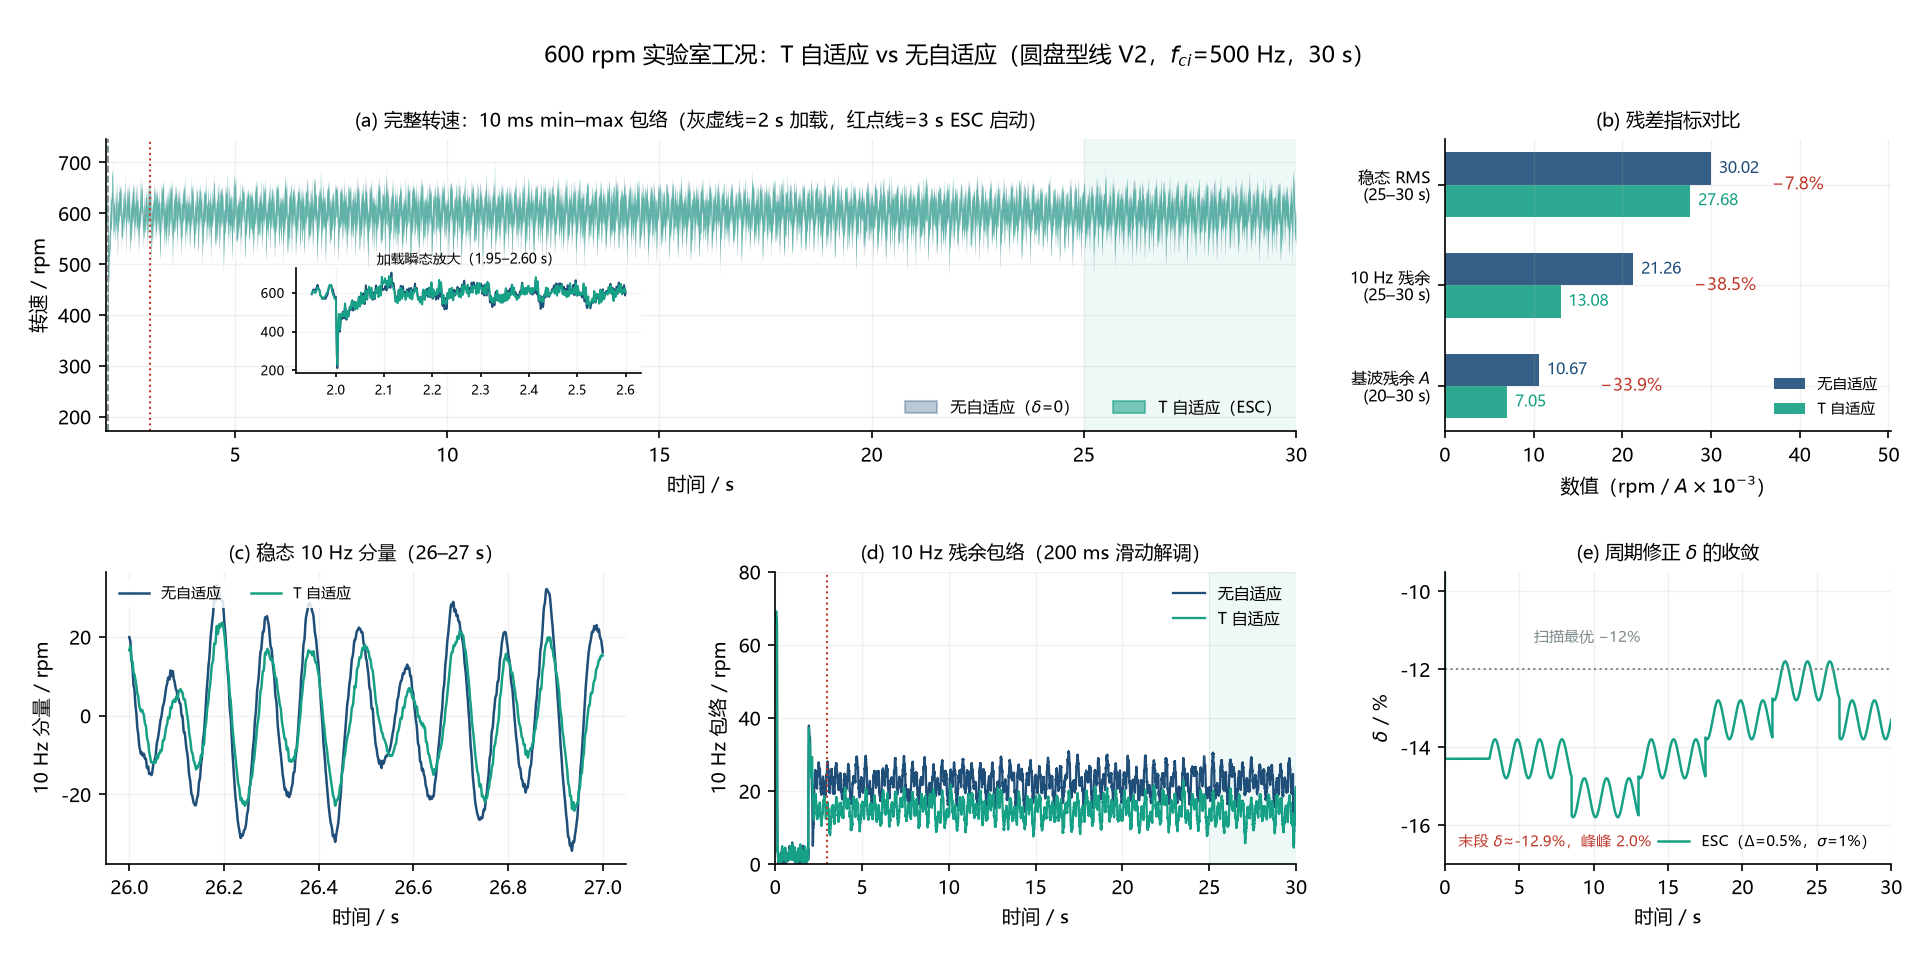
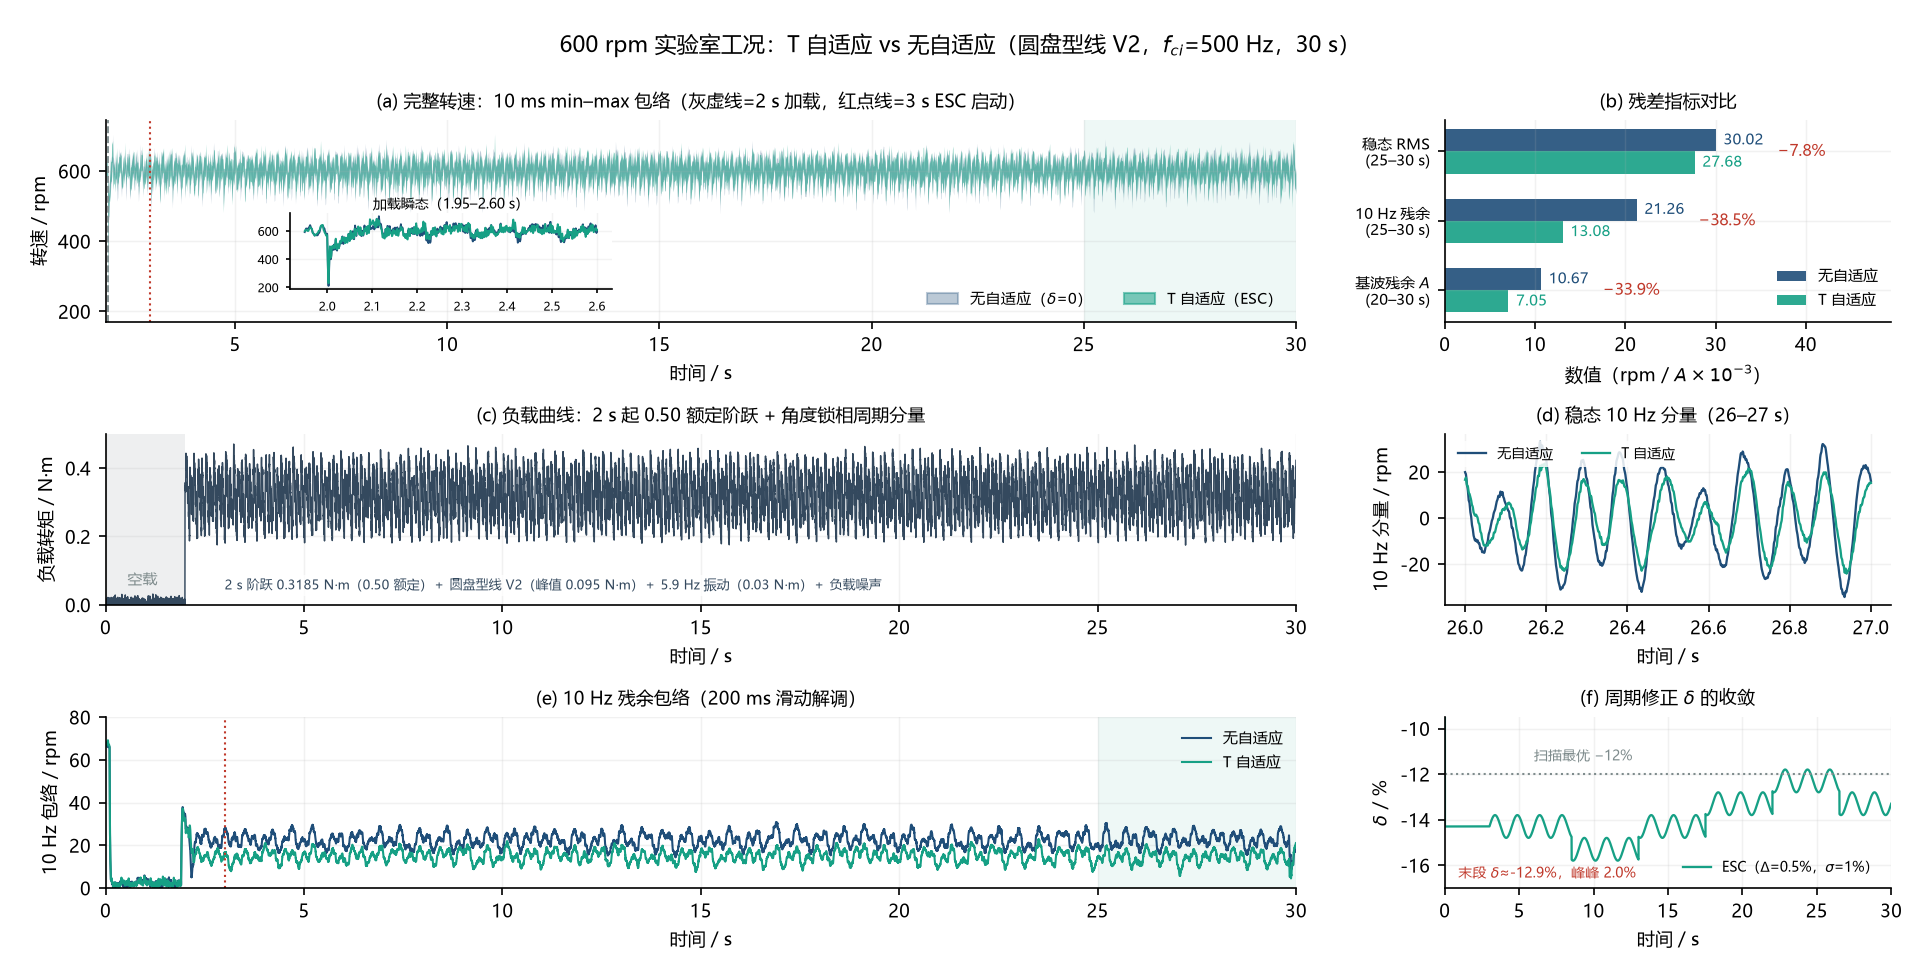
feat(fig): 对比图加入负载曲线（六面板）
- run_t_cmp_600.py 保存 Y[tl]（含负载噪声）；负载：0-2s 空载，2s 阶跃 0.3185 N·m + 圆盘型线V2 + 5.9Hz 振动 + 噪声，实测峰值 0.475 N·m\n- 布局 3x3：转速/残差/负载/稳态10Hz/包络/δ；指标不变（30.02→27.68，10Hz 21.26→13.08）

diff --git a/plot_t_cmp_600.py b/plot_t_cmp_600.py
@@ -1,5 +1,9 @@
 # -*- coding: utf-8 -*-
-"""plot_t_cmp_600.py —— 600 rpm 实验室：T 自适应 vs 无自适应（1920×960）"""
+"""plot_t_cmp_600.py —— 600 rpm 实验室：T 自适应 vs 无自适应（1920×960）
+
+六面板：完整转速（含加载瞬态内嵌）/ 残差指标 / 负载曲线 / 稳态 10 Hz 分量 /
+10 Hz 残余包络 / δ 收敛。输入 _wave_t_cmp_600.npz，输出 fig_t_cmp_600.png。
+"""
 import json
 
 import numpy as np
@@ -9,10 +13,11 @@ import matplotlib.pyplot as plt
 from matplotlib.patches import Patch
 
 N_REF = 600.0
-C_BASE, C_ESC = "#1f4e79", "#16a085"
+T_RATED = 0.637
+C_BASE, C_ESC, C_LOAD = "#1f4e79", "#16a085", "#34495e"
 plt.rcParams.update({
     "font.sans-serif": ["Microsoft YaHei", "SimHei", "DejaVu Sans"],
-    "axes.unicode_minus": False, "font.size": 9.2,
+    "axes.unicode_minus": False, "font.size": 8.8,
     "figure.dpi": 150,
     "axes.grid": True, "grid.alpha": 0.17, "grid.linewidth": 0.7,
     "axes.spines.top": False, "axes.spines.right": False,
@@ -26,10 +31,11 @@ ts = t[::dec]
 y_b = np.asarray(d["y_base"]); y_e = np.asarray(d["y_esc"])
 A_b = np.asarray(d["amp_base"]); A_e = np.asarray(d["amp_esc"])
 es = np.asarray(d["es_esc"])
+tl = np.asarray(d["tl"])[::dec]
 eb_full = (y_b - 1.0) * N_REF
 ee_full = (y_e - 1.0) * N_REF
 eb = eb_full[::dec]; ee = ee_full[::dec]
-Ab = A_b[::dec]; Ae = A_e[::dec]; es_s = es[::dec]
+es_s = es[::dec]
 
 
 def metrics(e, A, tt):
@@ -66,100 +72,104 @@ def band10(e, tt, f=10.0, win=0.1):
     return a * np.cos(2 * np.pi * f * tt) + b * np.sin(2 * np.pi * f * tt)
 
 
-tm_b, mn_b, mx_b = env_minmax(600 + eb, ts)
-tm_e, mn_e, mx_e = env_minmax(600 + ee, ts)
-env_b = demod_env(eb, ts)
-env_e = demod_env(ee, ts)
-x10_b = band10(eb, ts)
-x10_e = band10(ee, ts)
+tm, mn_b, mx_b = env_minmax(600 + eb, ts)
+_, mn_e, mx_e = env_minmax(600 + ee, ts)
+env_b = demod_env(eb, ts); env_e = demod_env(ee, ts)
+x10_b = band10(eb, ts); x10_e = band10(ee, ts)
 
 fig = plt.figure(figsize=(12.8, 6.4))
-gs = fig.add_gridspec(2, 3, width_ratios=[1.05, 1.05, 0.9], height_ratios=[1, 1],
-                      left=0.055, right=0.985, top=0.855, bottom=0.10,
-                      wspace=0.30, hspace=0.48)
+gs = fig.add_gridspec(3, 3, width_ratios=[1.05, 1.05, 0.9], height_ratios=[1.18, 1, 1],
+                      left=0.055, right=0.985, top=0.875, bottom=0.075,
+                      wspace=0.30, hspace=0.62)
 ax_a = fig.add_subplot(gs[0, :2])
 ax_b = fig.add_subplot(gs[0, 2])
-ax_c = fig.add_subplot(gs[1, 0])
-ax_d = fig.add_subplot(gs[1, 1])
-ax_e = fig.add_subplot(gs[1, 2])
+ax_c = fig.add_subplot(gs[1, :2])
+ax_d = fig.add_subplot(gs[1, 2])
+ax_e = fig.add_subplot(gs[2, :2])
+ax_f = fig.add_subplot(gs[2, 2])
 
-# (a) 完整转速（10 ms 包络）
+# (a) 完整转速
 ax_a.axvspan(25, 30, color="#16a085", alpha=0.07, lw=0)
-ax_a.fill_between(tm_b, mn_b, mx_b, color=C_BASE, alpha=0.30, lw=0)
-ax_a.fill_between(tm_e, mn_e, mx_e, color=C_ESC, alpha=0.55, lw=0)
-ax_a.plot(tm_b, 600 + (mn_b + mx_b) / 2 - 600 + 600, color=C_BASE, lw=0.7, alpha=0.0)
+ax_a.fill_between(tm, mn_b, mx_b, color=C_BASE, alpha=0.30, lw=0)
+ax_a.fill_between(tm, mn_e, mx_e, color=C_ESC, alpha=0.55, lw=0)
 ax_a.axvline(2.0, color="#7f8c8d", ls="--", lw=0.9)
 ax_a.axvline(3.0, color="#c0392b", ls=":", lw=1.0)
-sel = tm_b >= 1.95
+sel = tm >= 1.95
 ymin = min(mn_b[sel].min(), mn_e[sel].min()); ymax = max(mx_b[sel].max(), mx_e[sel].max())
 pad = 0.08 * (ymax - ymin)
-ax_a.set_ylim(ymin - pad, ymax + pad)
-ax_a.set_xlim(1.95, 30)
-axin = ax_a.inset_axes([0.16, 0.20, 0.29, 0.36])
+ax_a.set_ylim(ymin - pad, ymax + pad); ax_a.set_xlim(1.95, 30)
+axin = ax_a.inset_axes([0.155, 0.16, 0.27, 0.38])
 m2 = (ts >= 1.95) & (ts <= 2.60)
 axin.plot(ts[m2], 600 + eb[m2], color=C_BASE, lw=0.9)
 axin.plot(ts[m2], 600 + ee[m2], color=C_ESC, lw=0.9)
-axin.set_facecolor("white")
-axin.tick_params(labelsize=6.0, length=2)
-axin.grid(alpha=0.15)
-axin.set_title("加载瞬态放大（1.95–2.60 s）", fontsize=6.8, pad=2)
+axin.set_facecolor("white"); axin.tick_params(labelsize=5.8, length=2); axin.grid(alpha=0.15)
+axin.set_title("加载瞬态（1.95–2.60 s）", fontsize=6.6, pad=2)
 ax_a.set_xlabel("时间 / s"); ax_a.set_ylabel("转速 / rpm")
 ax_a.legend(handles=[Patch(color=C_BASE, alpha=0.30, label="无自适应（$\\delta$=0）"),
                      Patch(color=C_ESC, alpha=0.55, label="T 自适应（ESC）")],
-            fontsize=7.8, loc="lower right", ncol=2)
-ax_a.set_title("(a) 完整转速：10 ms min–max 包络（灰虚线=2 s 加载，红点线=3 s ESC 启动）", fontsize=9.0)
+            fontsize=7.4, loc="lower right", ncol=2)
+ax_a.set_title("(a) 完整转速：10 ms min–max 包络（灰虚线=2 s 加载，红点线=3 s ESC 启动）", fontsize=8.8)
 
-# (b) 残差指标（横向条）
+# (b) 残差指标
 names = ["稳态 RMS\n(25–30 s)", "10 Hz 残余\n(25–30 s)", "基波残余 $A$\n(20–30 s)"]
 vb = [mb["rms"], mb["amp10"], mb["A"] * 1e3]
 ve = [me["rms"], me["amp10"], me["A"] * 1e3]
-ypos = np.arange(3)[::-1]
-h = 0.32
+ypos = np.arange(3)[::-1]; h = 0.32
 ax_b.barh(ypos + h / 2, vb, h, color=C_BASE, alpha=0.9, label="无自适应")
 ax_b.barh(ypos - h / 2, ve, h, color=C_ESC, alpha=0.9, label="T 自适应")
 vmax = max(vb) * 1.42
 for i, yv in enumerate(ypos):
-    ax_b.text(vb[i] + 0.02 * vmax, yv + h / 2, "%.2f" % vb[i], va="center", fontsize=7.6, color=C_BASE)
-    ax_b.text(ve[i] + 0.02 * vmax, yv - h / 2, "%.2f" % ve[i], va="center", fontsize=7.6, color=C_ESC)
-    drop = 100 * (1 - ve[i] / vb[i])
-    ax_b.text(vb[i] + 0.16 * vmax, yv, "−%.1f%%" % drop, va="center", fontsize=8.2, color="#c0392b")
-ax_b.set_yticks(ypos); ax_b.set_yticklabels(names, fontsize=7.6)
-ax_b.set_xlim(0, vmax * 1.18)
-ax_b.set_xlabel("数值（rpm / $A\\times10^{-3}$）")
-ax_b.legend(fontsize=7.4, loc="lower right")
-ax_b.set_title("(b) 残差指标对比", fontsize=9.0)
+    ax_b.text(vb[i] + 0.02 * vmax, yv + h / 2, "%.2f" % vb[i], va="center", fontsize=7.2, color=C_BASE)
+    ax_b.text(ve[i] + 0.02 * vmax, yv - h / 2, "%.2f" % ve[i], va="center", fontsize=7.2, color=C_ESC)
+    ax_b.text(vb[i] + 0.16 * vmax, yv, "−%.1f%%" % (100 * (1 - ve[i] / vb[i])), va="center",
+              fontsize=7.8, color="#c0392b")
+ax_b.set_yticks(ypos); ax_b.set_yticklabels(names, fontsize=7.2)
+ax_b.set_xlim(0, vmax * 1.16); ax_b.set_xlabel("数值（rpm / $A\\times10^{-3}$）")
+ax_b.legend(fontsize=7.0, loc="lower right")
+ax_b.set_title("(b) 残差指标对比", fontsize=8.8)
 
-# (c) 稳态 10 Hz 分量
+# (c) 负载转矩
+ax_c.axvspan(0, 2, color="#bdc3c7", alpha=0.25, lw=0)
+ax_c.plot(ts, tl, color=C_LOAD, lw=0.7)
+ax_c.text(0.55, 0.06, "空载", fontsize=7.0, color="#7f8c8d")
+ax_c.text(3.0, 0.045, "2 s 阶跃 0.3185 N·m（0.50 额定）＋ 圆盘型线 V2（峰值 0.095 N·m）＋ 5.9 Hz 振动（0.03 N·m）＋ 负载噪声",
+          fontsize=6.4, color=C_LOAD,
+          bbox=dict(facecolor="white", alpha=0.78, edgecolor="none", pad=1.6))
+ax_c.set_xlim(0, 30); ax_c.set_ylim(0, 0.5)
+ax_c.set_xlabel("时间 / s"); ax_c.set_ylabel("负载转矩 / N·m")
+ax_c.set_title("(c) 负载曲线：2 s 起 0.50 额定阶跃 + 角度锁相周期分量", fontsize=8.8)
+
+# (d) 稳态 10 Hz 分量
 m = (ts >= 26.0) & (ts <= 27.0)
-ax_c.plot(ts[m], x10_b[m], color=C_BASE, lw=1.2, label="无自适应")
-ax_c.plot(ts[m], x10_e[m], color=C_ESC, lw=1.2, label="T 自适应")
-ax_c.set_xlabel("时间 / s"); ax_c.set_ylabel("10 Hz 分量 / rpm")
-ax_c.set_title("(c) 稳态 10 Hz 分量（26–27 s）", fontsize=9.0)
-ax_c.legend(fontsize=7.2, loc="upper left", ncol=2, frameon=True, framealpha=0.85, edgecolor="none")
+ax_d.plot(ts[m], x10_b[m], color=C_BASE, lw=1.1, label="无自适应")
+ax_d.plot(ts[m], x10_e[m], color=C_ESC, lw=1.1, label="T 自适应")
+ax_d.set_xlabel("时间 / s"); ax_d.set_ylabel("10 Hz 分量 / rpm")
+ax_d.set_title("(d) 稳态 10 Hz 分量（26–27 s）", fontsize=8.8)
+ax_d.legend(fontsize=6.8, loc="upper left", ncol=2, frameon=True, framealpha=0.85, edgecolor="none")
 
-# (d) 10 Hz 包络
-ax_d.plot(ts, env_b, color=C_BASE, lw=1.1, label="无自适应")
-ax_d.plot(ts, env_e, color=C_ESC, lw=1.1, label="T 自适应")
-ax_d.axvspan(25, 30, color="#16a085", alpha=0.07, lw=0)
-ax_d.axvline(3.0, color="#c0392b", ls=":", lw=1.0)
-ax_d.set_xlim(0, 30); ax_d.set_ylim(0, 80)
-ax_d.set_xlabel("时间 / s"); ax_d.set_ylabel("10 Hz 包络 / rpm")
-ax_d.set_title("(d) 10 Hz 残余包络（200 ms 滑动解调）", fontsize=9.0)
-ax_d.legend(fontsize=7.6, loc="upper right")
+# (e) 10 Hz 残余包络
+ax_e.plot(ts, env_b, color=C_BASE, lw=1.0, label="无自适应")
+ax_e.plot(ts, env_e, color=C_ESC, lw=1.0, label="T 自适应")
+ax_e.axvspan(25, 30, color="#16a085", alpha=0.07, lw=0)
+ax_e.axvline(3.0, color="#c0392b", ls=":", lw=1.0)
+ax_e.set_xlim(0, 30); ax_e.set_ylim(0, 80)
+ax_e.set_xlabel("时间 / s"); ax_e.set_ylabel("10 Hz 包络 / rpm")
+ax_e.set_title("(e) 10 Hz 残余包络（200 ms 滑动解调）", fontsize=8.8)
+ax_e.legend(fontsize=7.0, loc="upper right")
 
-# (e) δ 轨迹
-ax_e.plot(ts, es_s * 100, color=C_ESC, lw=1.2, label="ESC（$\\Delta$=0.5%，$\\sigma$=1%）")
-ax_e.axhline(-12.0, color="#7f8c8d", ls=":", lw=1.0)
-ax_e.text(6.0, -11.3, "扫描最优 −12%", fontsize=7.4, color="#7f8c8d")
-ax_e.set_xlim(0, 30); ax_e.set_ylim(-17, -9.5)
-ax_e.set_xlabel("时间 / s"); ax_e.set_ylabel("$\\delta$ / %")
-ax_e.set_title("(e) 周期修正 $\\delta$ 的收敛", fontsize=9.0)
-ax_e.text(0.03, 0.06, "末段 $\\delta$≈%.1f%%，峰峰 %.1f%%" % (100*np.mean(es_s[ts>=20.0]),
-           100*np.ptp(es_s[ts>=20.0])), transform=ax_e.transAxes, ha="left", fontsize=7.4, color="#c0392b")
-ax_e.legend(fontsize=7.4, loc="lower right")
+# (f) δ 轨迹
+ax_f.plot(ts, es_s * 100, color=C_ESC, lw=1.1, label="ESC（$\\Delta$=0.5%，$\\sigma$=1%）")
+ax_f.axhline(-12.0, color="#7f8c8d", ls=":", lw=1.0)
+ax_f.text(6.0, -11.4, "扫描最优 −12%", fontsize=6.8, color="#7f8c8d")
+ax_f.set_xlim(0, 30); ax_f.set_ylim(-17, -9.5)
+ax_f.set_xlabel("时间 / s"); ax_f.set_ylabel("$\\delta$ / %")
+ax_f.set_title("(f) 周期修正 $\\delta$ 的收敛", fontsize=8.8)
+ax_f.text(0.03, 0.06, "末段 $\\delta$≈%.1f%%，峰峰 %.1f%%" % (100 * np.mean(es_s[ts >= 20.0]),
+           100 * np.ptp(es_s[ts >= 20.0])), transform=ax_f.transAxes, ha="left", fontsize=6.8, color="#c0392b")
+ax_f.legend(fontsize=6.6, loc="lower right")
 
 fig.suptitle("600 rpm 实验室工况：T 自适应 vs 无自适应（圆盘型线 V2，$f_{ci}$=500 Hz，30 s）",
-             fontsize=11.0, y=0.955)
+             fontsize=10.6, y=0.965)
 fig.savefig("fig_t_cmp_600.png", dpi=150, facecolor="white")
 try:
     from PIL import Image
@@ -168,7 +178,8 @@ except Exception:
     pass
 
 json.dump(dict(base=mb, esc=me, d_mean=float(np.mean(es_s[ts >= 20.0])),
-               d_p2p=float(np.ptp(es_s[ts >= 20.0]))),
+               d_p2p=float(np.ptp(es_s[ts >= 20.0])),
+               tl_peak=float(np.max(tl)), tl_mean_loaded=float(np.mean(tl[ts >= 5.0]))),
           open("_t_cmp_600_metrics.json", "w", encoding="utf-8"), ensure_ascii=False, indent=1)
 print("ok: fig_t_cmp_600.png")
 print("base", mb); print("esc ", me)

diff --git a/run_t_cmp_600.py b/run_t_cmp_600.py
@@ -68,5 +68,8 @@ if __name__ == "__main__":
               % (key, rms, amp10, float(np.mean(A[mA])), float(np.mean(dl[tt >= 20.0])),
                  100 * float(np.ptp(dl[tt >= 20.0]))), flush=True)
         out["y_" + key] = y; out["amp_" + key] = A; out["es_" + key] = dl
+        if "tl" not in out:
+            out["tl"] = np.asarray(Y["tl"])
     np.savez("_wave_t_cmp_600.npz", t=tt, **out)
+    print("tl 峰值 %.3f N·m，加载后均值 %.3f N·m" % (float(np.max(out["tl"])), float(np.mean(out["tl"][tt >= 5.0]))))
     print("saved _wave_t_cmp_600.npz")
